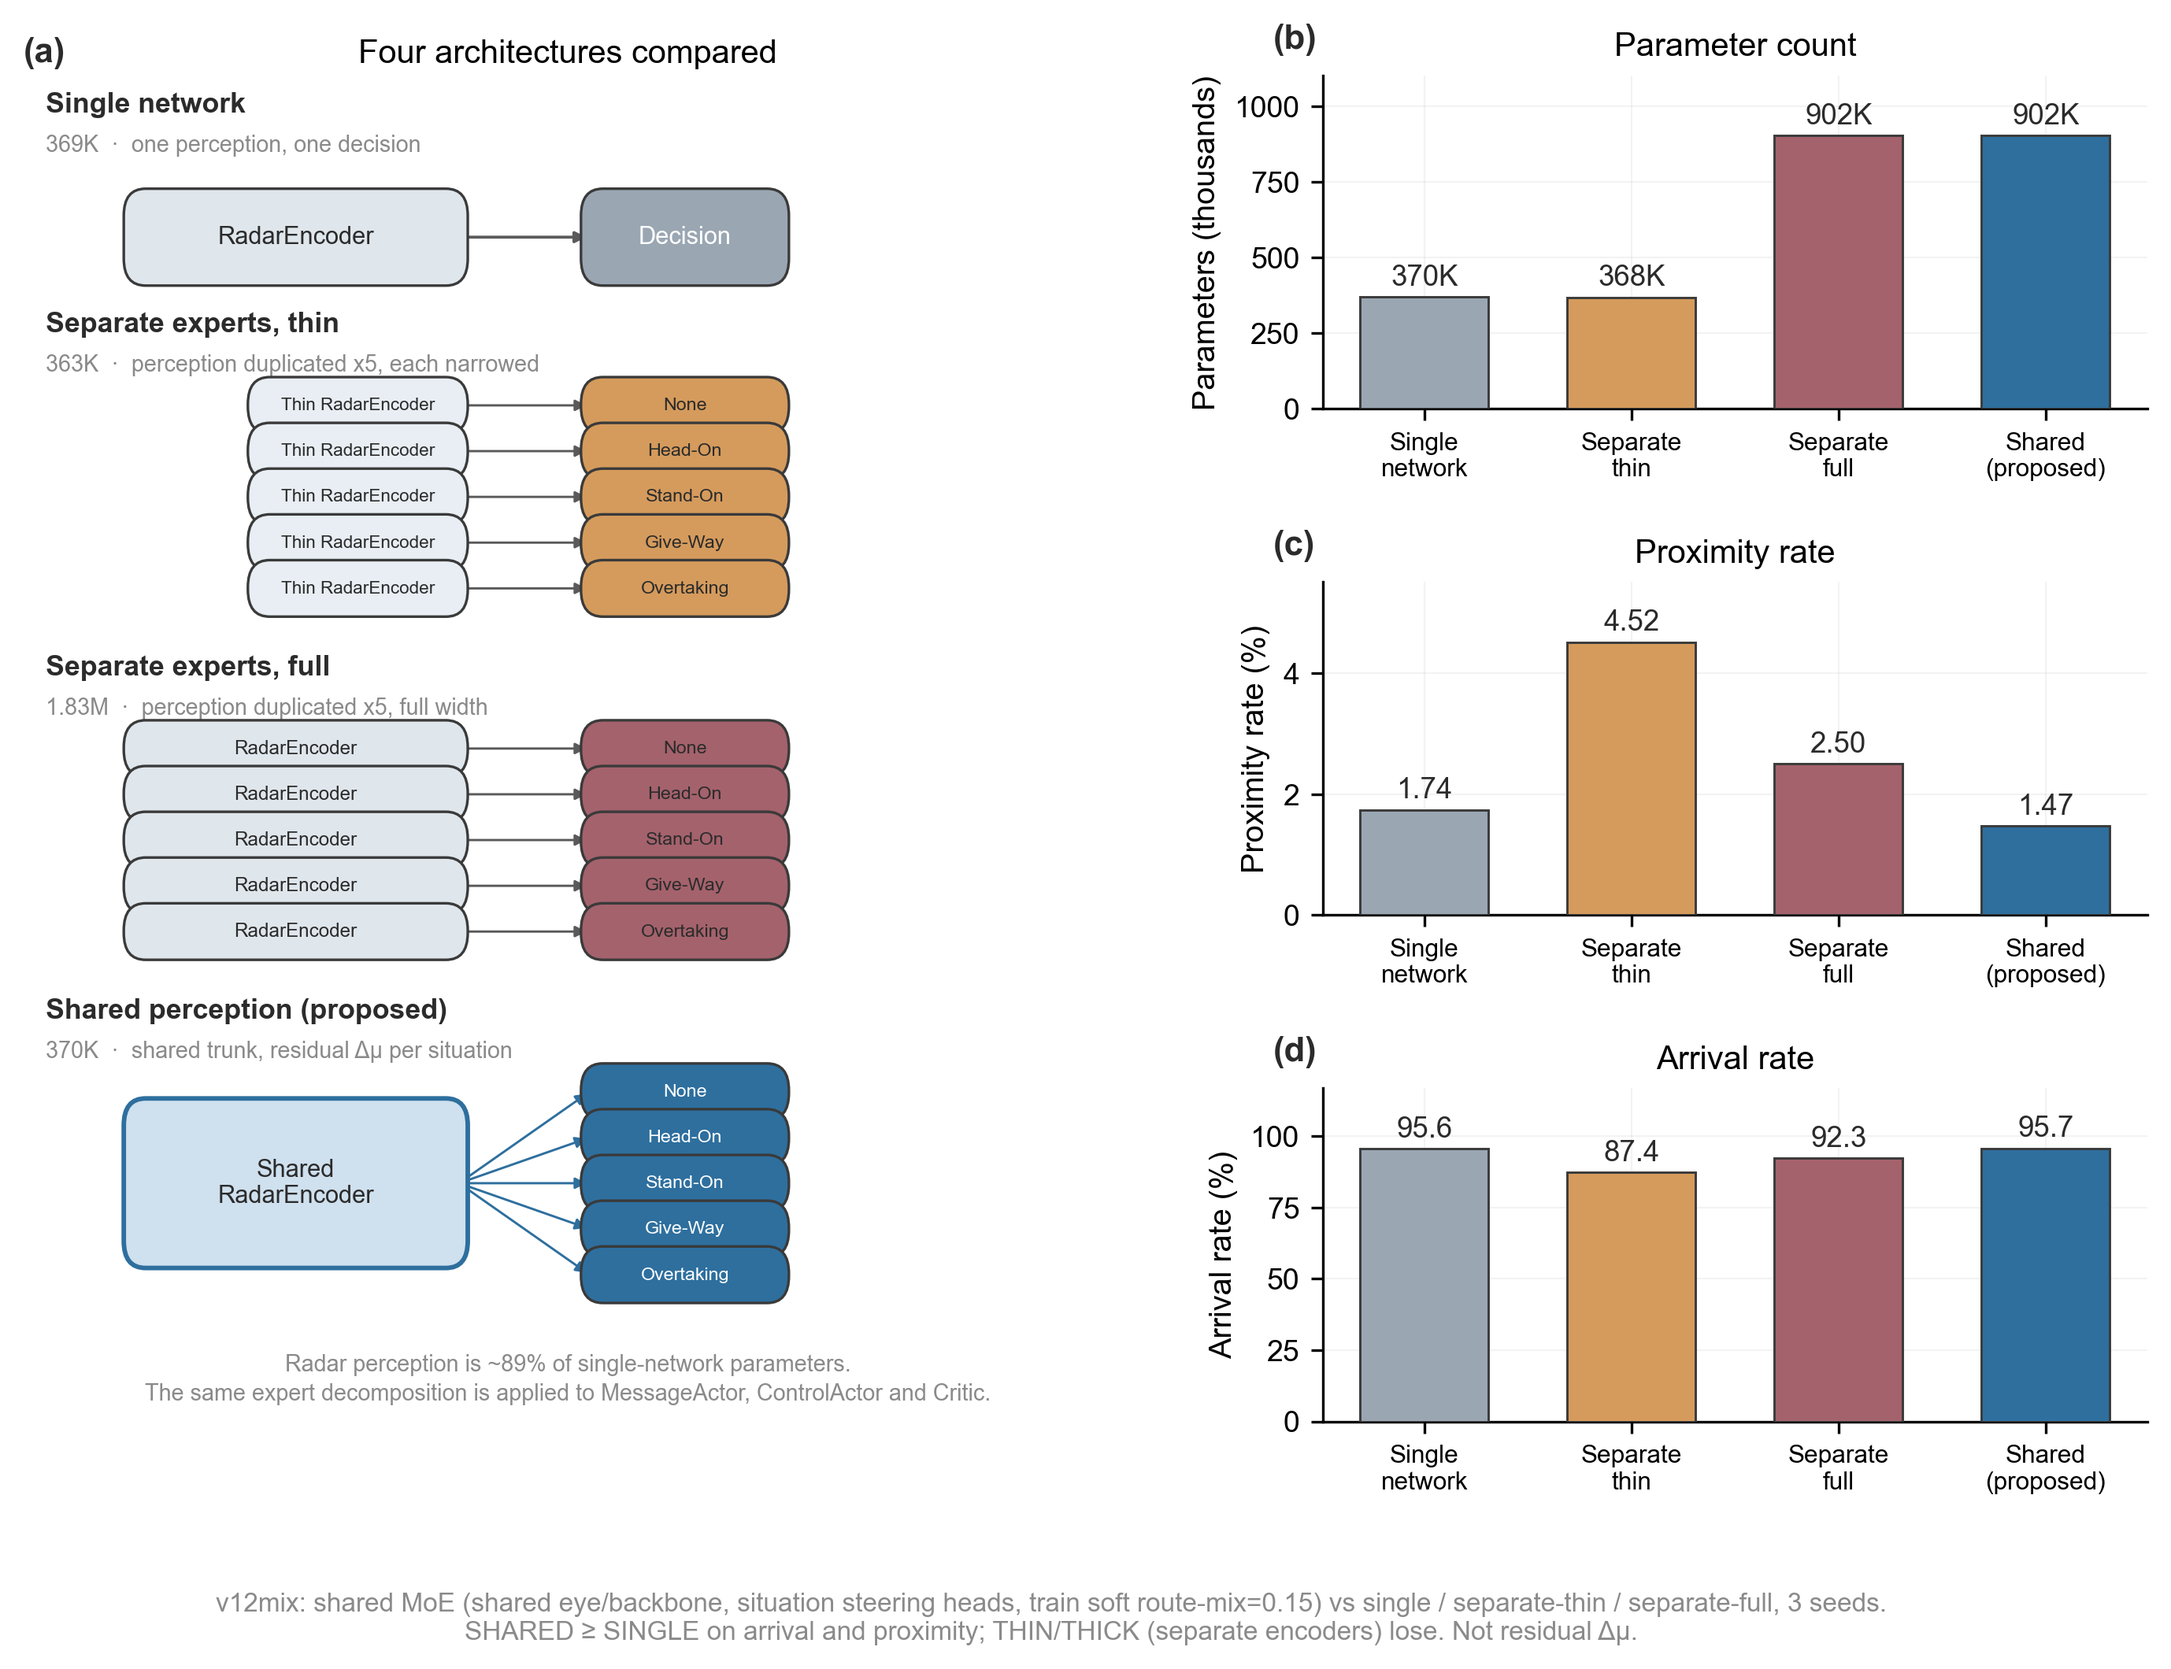
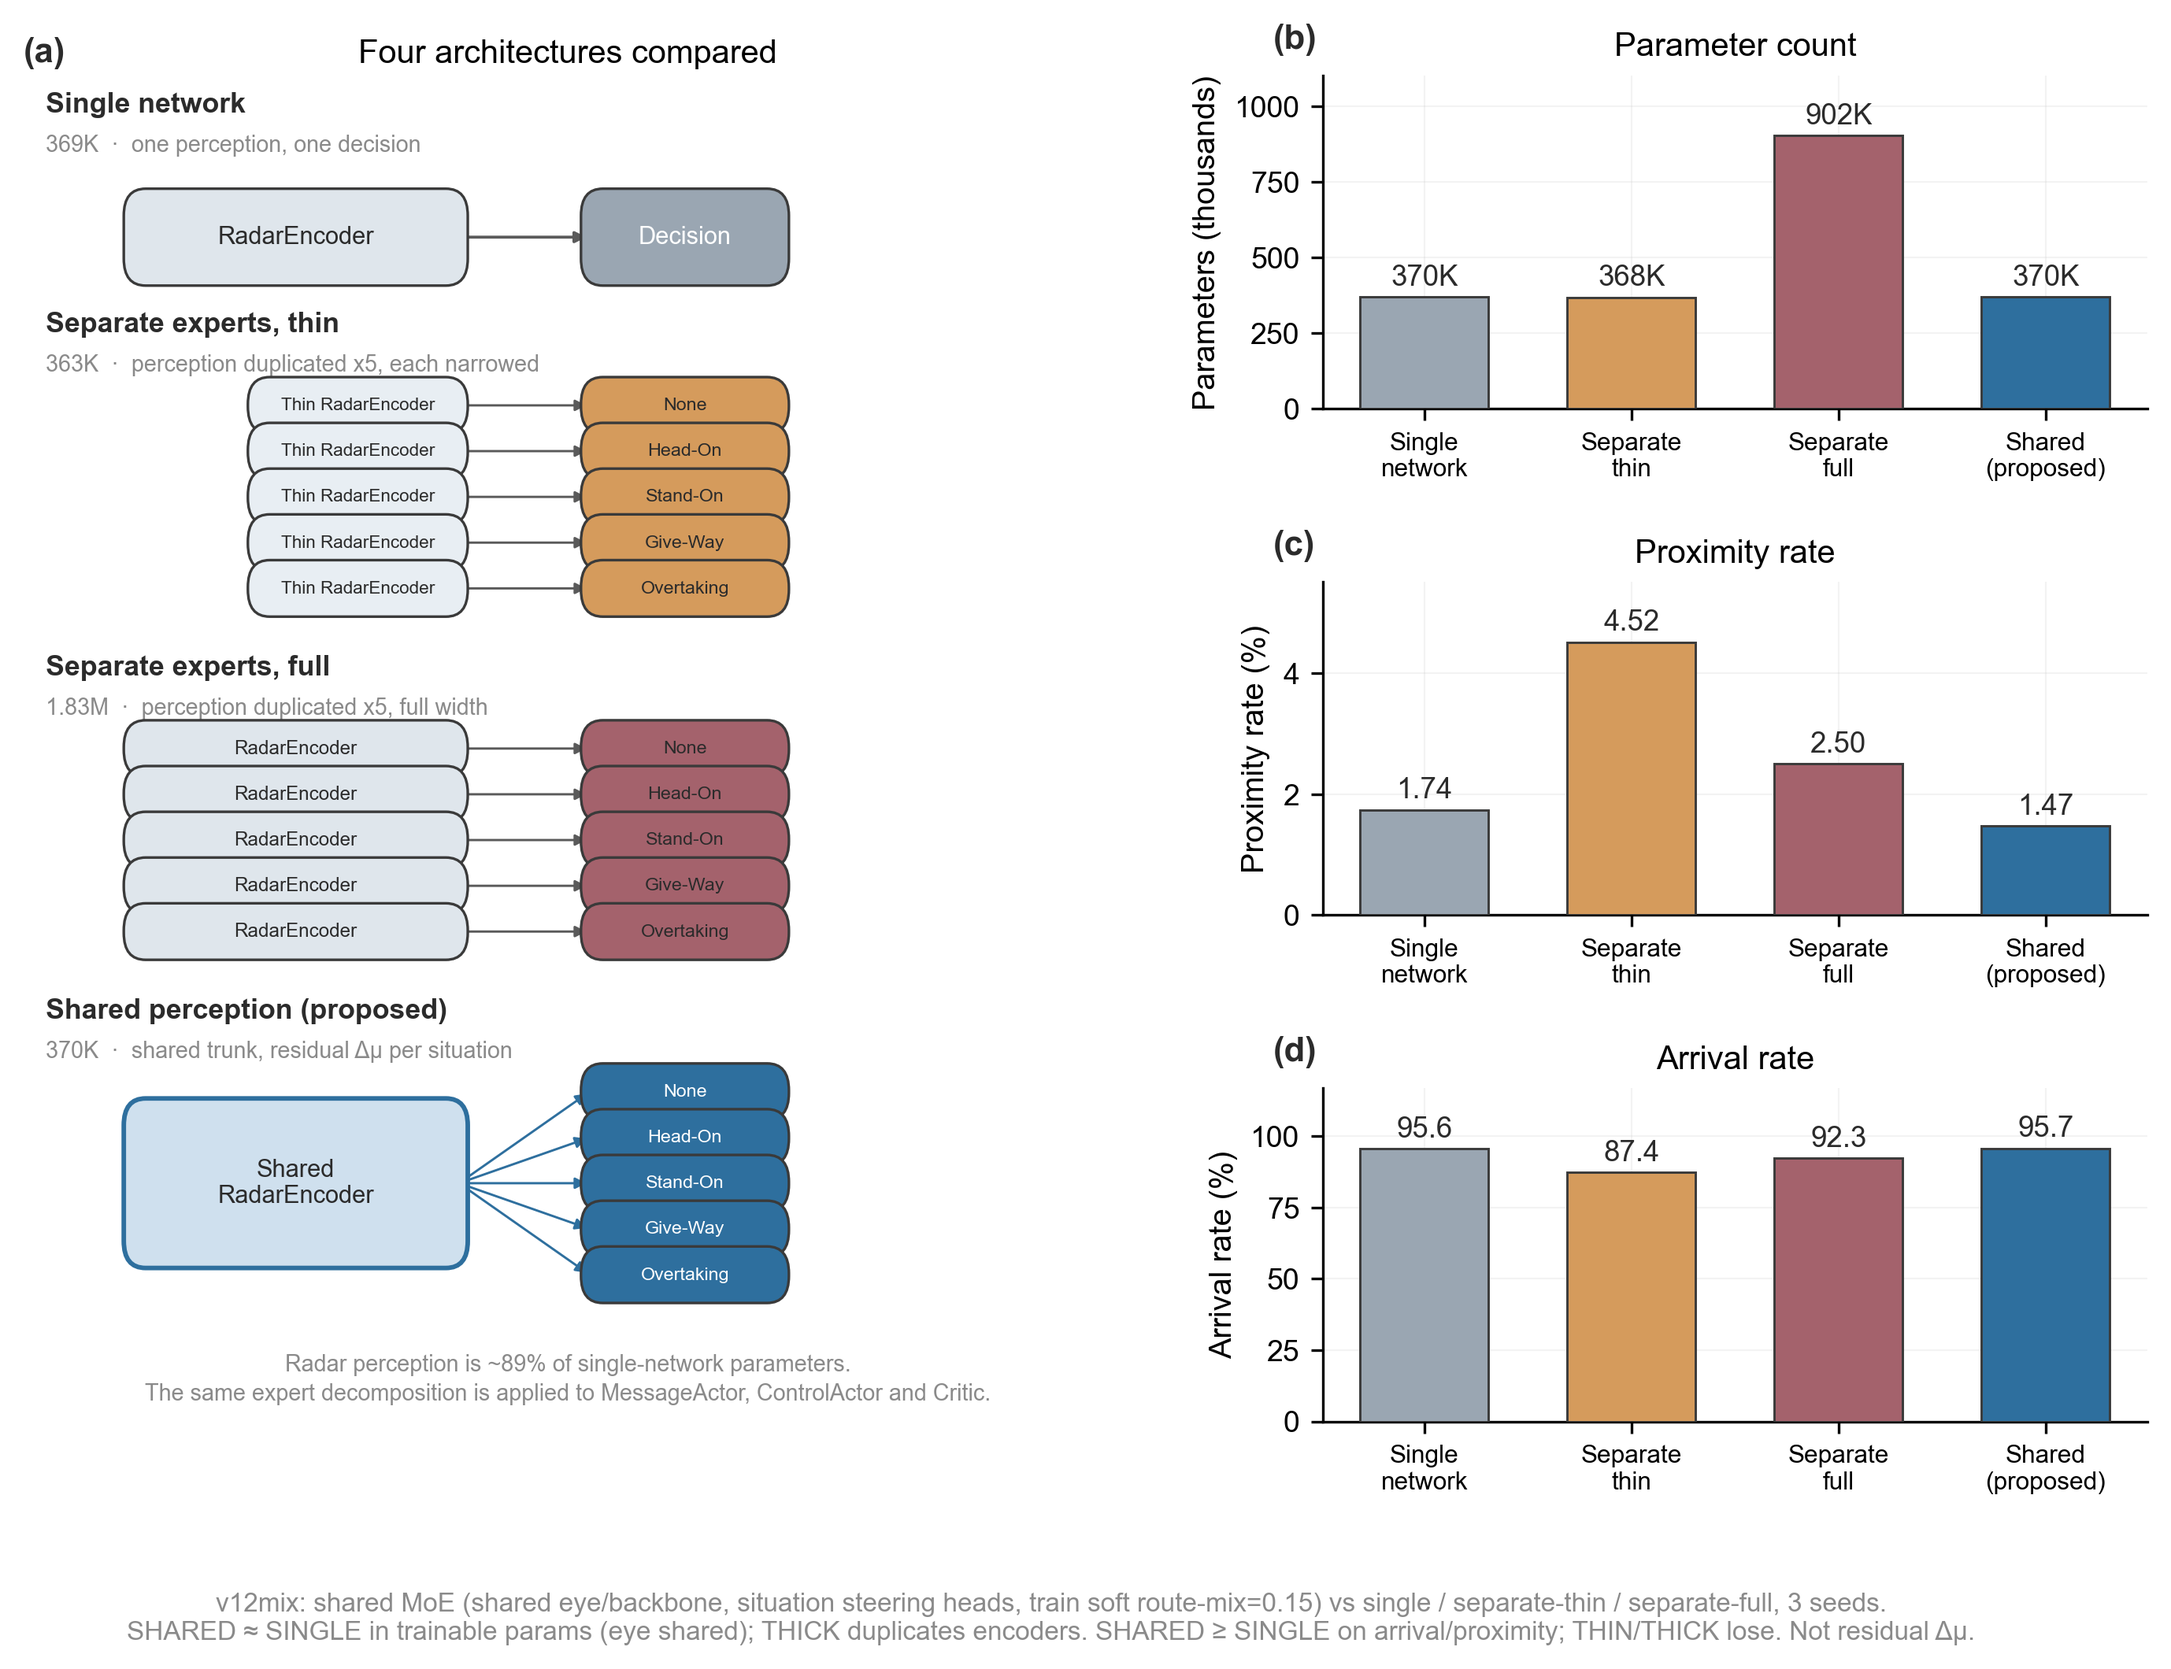
Fix Fig2 param bars: SHARED unique count, not state_dict copies.
Shared modules are one tensor at train time; state_dict stores identical expert replicas for load compat, which falsely matched THICK.

Changed region(s): [[0.0624, 0.9651, 0.9046, 0.9962], [0.9046, 0.0623, 0.9982, 0.1868]]

diff --git a/Python/make_paper_figures.py b/Python/make_paper_figures.py
@@ -33,9 +33,11 @@ import schematics as sch
 SIT4 = ["Head-On", "Give-Way", "Overtaking", "Stand-On"]
 SIT_KEYS = ("sit1", "sit3", "sit4", "sit2")
 W_GOAL, W_PROX, W_TO = 1.5, 6.0, 0.5
-# Measured state-dict numel from v12mix / v12mix_hub ckpts (s42).
+# Trainable unique params (optimizer sees shared tensors once).
+# state_dict stores 5 identical copies of shared modules for load compat —
+# do NOT use serialized numel for SHARED (that falsely matches THICK).
 PARAMS = {
-    "SINGLE": 369771, "THIN": 368190, "THICK": 902415, "SHARED": 902415,
+    "SINGLE": 369771, "THIN": 368190, "THICK": 902415, "SHARED": 370295,
 }
 
 
@@ -182,7 +184,8 @@ def fig2(rows):
     fig.text(0.5, -0.015,
              "v12mix: shared MoE (shared eye/backbone, situation steering heads, train soft route-mix=0.15) "
              "vs single / separate-thin / separate-full, 3 seeds.\n"
-             "SHARED ≥ SINGLE on arrival and proximity; THIN/THICK (separate encoders) lose. Not residual Δμ.",
+             "SHARED ≈ SINGLE in trainable params (eye shared); THICK duplicates encoders. "
+             "SHARED ≥ SINGLE on arrival/proximity; THIN/THICK lose. Not residual Δμ.",
              ha="center", fontsize=8.0, color=C["mute"])
     fsx.save(fig, str(OUT), "Fig2_MoE_architecture")
 
